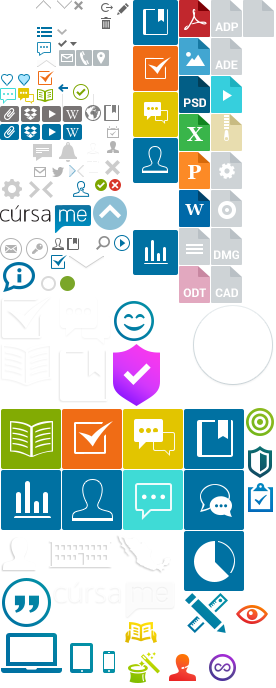
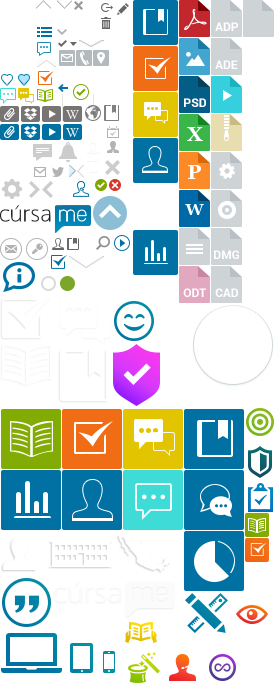
primer vista para calificar actividades

Changed region(s): [[0.8696, 0.7326, 0.9855, 0.8241]]

diff --git a/app/assets/stylesheets/activities-depot/_skin.scss b/app/assets/stylesheets/activities-depot/_skin.scss
@@ -122,3 +122,42 @@
     font-size: 13px;
   }
 }
+
+.section-separator {
+  text-align: center;
+
+  .section-separator-title {
+    @extend .basic-container-style;
+
+    h6 {
+      text-transform: uppercase;
+      font-size: 11px; 
+      color: $gray-color;
+      font-weight: 600;
+    }
+  }
+
+  .tip {
+    background: url("/assets/pack.png") -79px -40px no-repeat;
+  }
+}
+
+.activities-list-section {
+  @extend .basic-container-style;
+
+  .activity-item {
+    border-top: 1px solid $separator-color;
+
+    h4 {
+      color: $global-color;
+    }
+
+    .activity-meta-data {
+      font-size: 12px;
+    }
+
+    &:first-child {
+      border-top: 0;
+    }
+  }
+}

diff --git a/app/assets/stylesheets/activities-depot/_skeleton.scss b/app/assets/stylesheets/activities-depot/_skeleton.scss
@@ -139,3 +139,38 @@
     }
   }
 }
+
+.section-separator {
+  margin-bottom: 20px;
+
+  .section-separator-title {
+    padding: 5px 10px;
+    position: relative;
+    @include inline-block;
+  }
+
+  .tip {
+    position: absolute;
+    left: 50%;
+    bottom: -9px;
+    width: 25px;
+    height: 9px;
+    margin-left: -12px;
+  }
+}
+
+.activities-list-section {
+  margin-bottom: 20px;
+
+  .activity-item {
+    padding: 20px 10px;
+
+    .activity-item-icon {
+      float: left;
+    }
+
+    .activity-item-desc {
+      margin-left: 34px;
+    }
+  }   
+}

diff --git a/app/assets/stylesheets/global/_icons.scss b/app/assets/stylesheets/global/_icons.scss
@@ -109,6 +109,8 @@
 .i-public { width: 12px; height: 12px; background-position: -110px -35px; }
 .i-drop-arrow { width: 7px; height: 10px; background-position: -70px -38px; }
 .i-check {	width: 9px; height: 7px; background-position: -58px -40px; }
+.i-activity-survey { width: 24px; height: 24px; background-position: -245px -538px; }
+.i-activity-delivery { width: 24px; height: 24px; background-position: -245px -513px; }
 
 /* File Types Icons */
 .i-file-type-dimension { width: 31px; height: 37px; }

diff --git a/app/assets/stylesheets/_vars.scss b/app/assets/stylesheets/_vars.scss
@@ -9,6 +9,7 @@ $primary-color: #0071a2;
 $complementary-color: #8bc504;
 $white: #ffffff;
 $meta-color: #999;
+$gray-color: #666666;
 $gray-lighter: #f7f7f7;
 $main-background: #E0E9EC;
 $separator-color: #e1e3e6;

diff --git a/app/controllers/evaluate_controller.rb b/app/controllers/evaluate_controller.rb
@@ -17,21 +17,24 @@ class EvaluateController < ApplicationController
     activities = (deliveries + surveys).sort do 
       |x,y| y.end_date <=> x.end_date
     end
+
+
         
     @today_activities = activities.clone.keep_if do
       |activity|
-      Date.today <= activity.end_date.to_date and activity.end_date.to_date <= Date.tomorrow.to_date
+      p activity
+      Date.today <= activity.end_date.to_datetime and activity.end_date.to_datetime <= Date.tomorrow
     end
     
     @tomorrow_activities = activities.clone.keep_if do 
       |activity|
-      Date.tomorrow <= activity.end_date.to_date and activity.end_date.to_date <= (Date.tomorrow + 1.day)
+      Date.tomorrow <= activity.end_date.to_datetime and activity.end_date.to_datetime <= (Date.tomorrow + 1.day)
     end
 
     @rest_of_activities = activities.clone.keep_if do
       |activity| 
-      activity.end_date.to_date >= (Date.tomorrow + 1.day)
-    end     
+      activity.end_date.to_datetime >= (Date.tomorrow + 1.day)
+    end  
     
   end
   

diff --git a/app/models/delivery.rb b/app/models/delivery.rb
@@ -269,4 +269,8 @@ class Delivery < ActiveRecord::Base
         }    
   end
 
+  def responses
+    assignments
+  end
+
 end

diff --git a/app/models/survey.rb b/app/models/survey.rb
@@ -178,4 +178,8 @@ class Survey < ActiveRecord::Base
     }    
   end
 
+  def responses
+    user_surveys
+  end
+
 end
